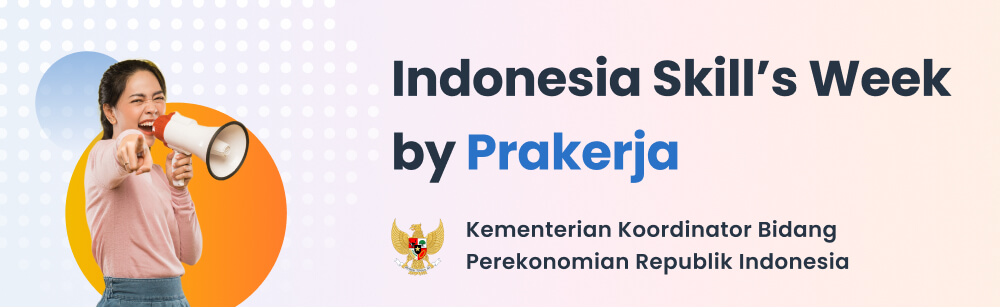
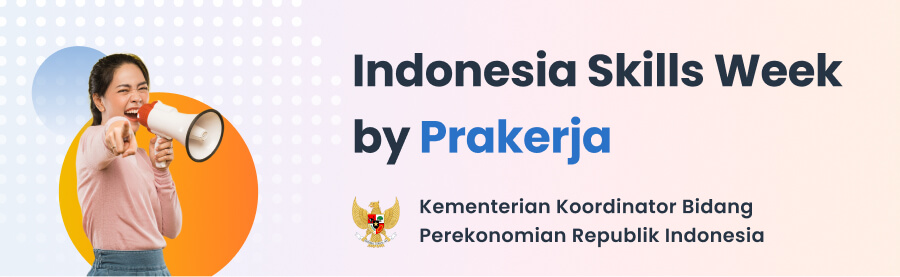
revise content

diff --git a/index.html b/index.html
@@ -71,7 +71,7 @@
                 <div class="row justify-content-center">
                     <div class="col-lg-8 text-center">
                         <h1 class="mb-4 display-2">Indonesia Skills Week by <span class="text-primary">Prakerja</span></h1>
-                        <p class="text-secondary paragraph-lg">Indonesia Skill’s Week merupakan event dua bulanan dimana masyarakat dapat mengakses aneka pelatihan online secara <b class="text-dark">gratis, murah dan mudah</b> selama <b class="text-dark">1 minggu</b>.</p>
+                        <p class="text-secondary paragraph-lg">Indonesia Skills Week merupakan event dua bulanan dimana masyarakat dapat mengakses aneka pelatihan online secara <b class="text-dark">gratis, murah dan mudah</b> selama <b class="text-dark">1 minggu</b>.</p>
                     </div>
                     <div class="col-lg-8 text-center py-4">
                         <p>Pelajari lebih lanjut, baca tentang <a href="#KategoriPelatihan" class="link-primary"><b>Kategori Pelatihan</b></a> dan <a href="#SyaratKetentuan" class="link-primary"><b>Syarat & Ketentuan</b></a></p>

diff --git a/email/email1.html b/email/email1.html
@@ -4,7 +4,7 @@
   <head>
     <meta name="viewport" content="width=device-width, initial-scale=1.0"/>
     <meta http-equiv="Content-Type" content="text/html; charset=UTF-8" />
-    <title>Ikuti Pelatihan di Program Indonesia Skill's Week by Prakerja</title>
+    <title>Ikuti Pelatihan di Program Indonesia Skills Week by Prakerja</title>
 
     <!-- start load fonts -->
     <link rel="preconnect" href="https://fonts.googleapis.com">
@@ -367,7 +367,7 @@
     </style>
   </head>
   <body>
-    <span class="preheader">Ikuti Pelatihan di Program Indonesia Skill's Week by Prakerja</span>
+    <span class="preheader">Ikuti Pelatihan di Program Indonesia Skills Week by Prakerja</span>
     <table role="presentation" border="0" cellpadding="0" cellspacing="0" class="body">
       <tr>
         <td></td>
